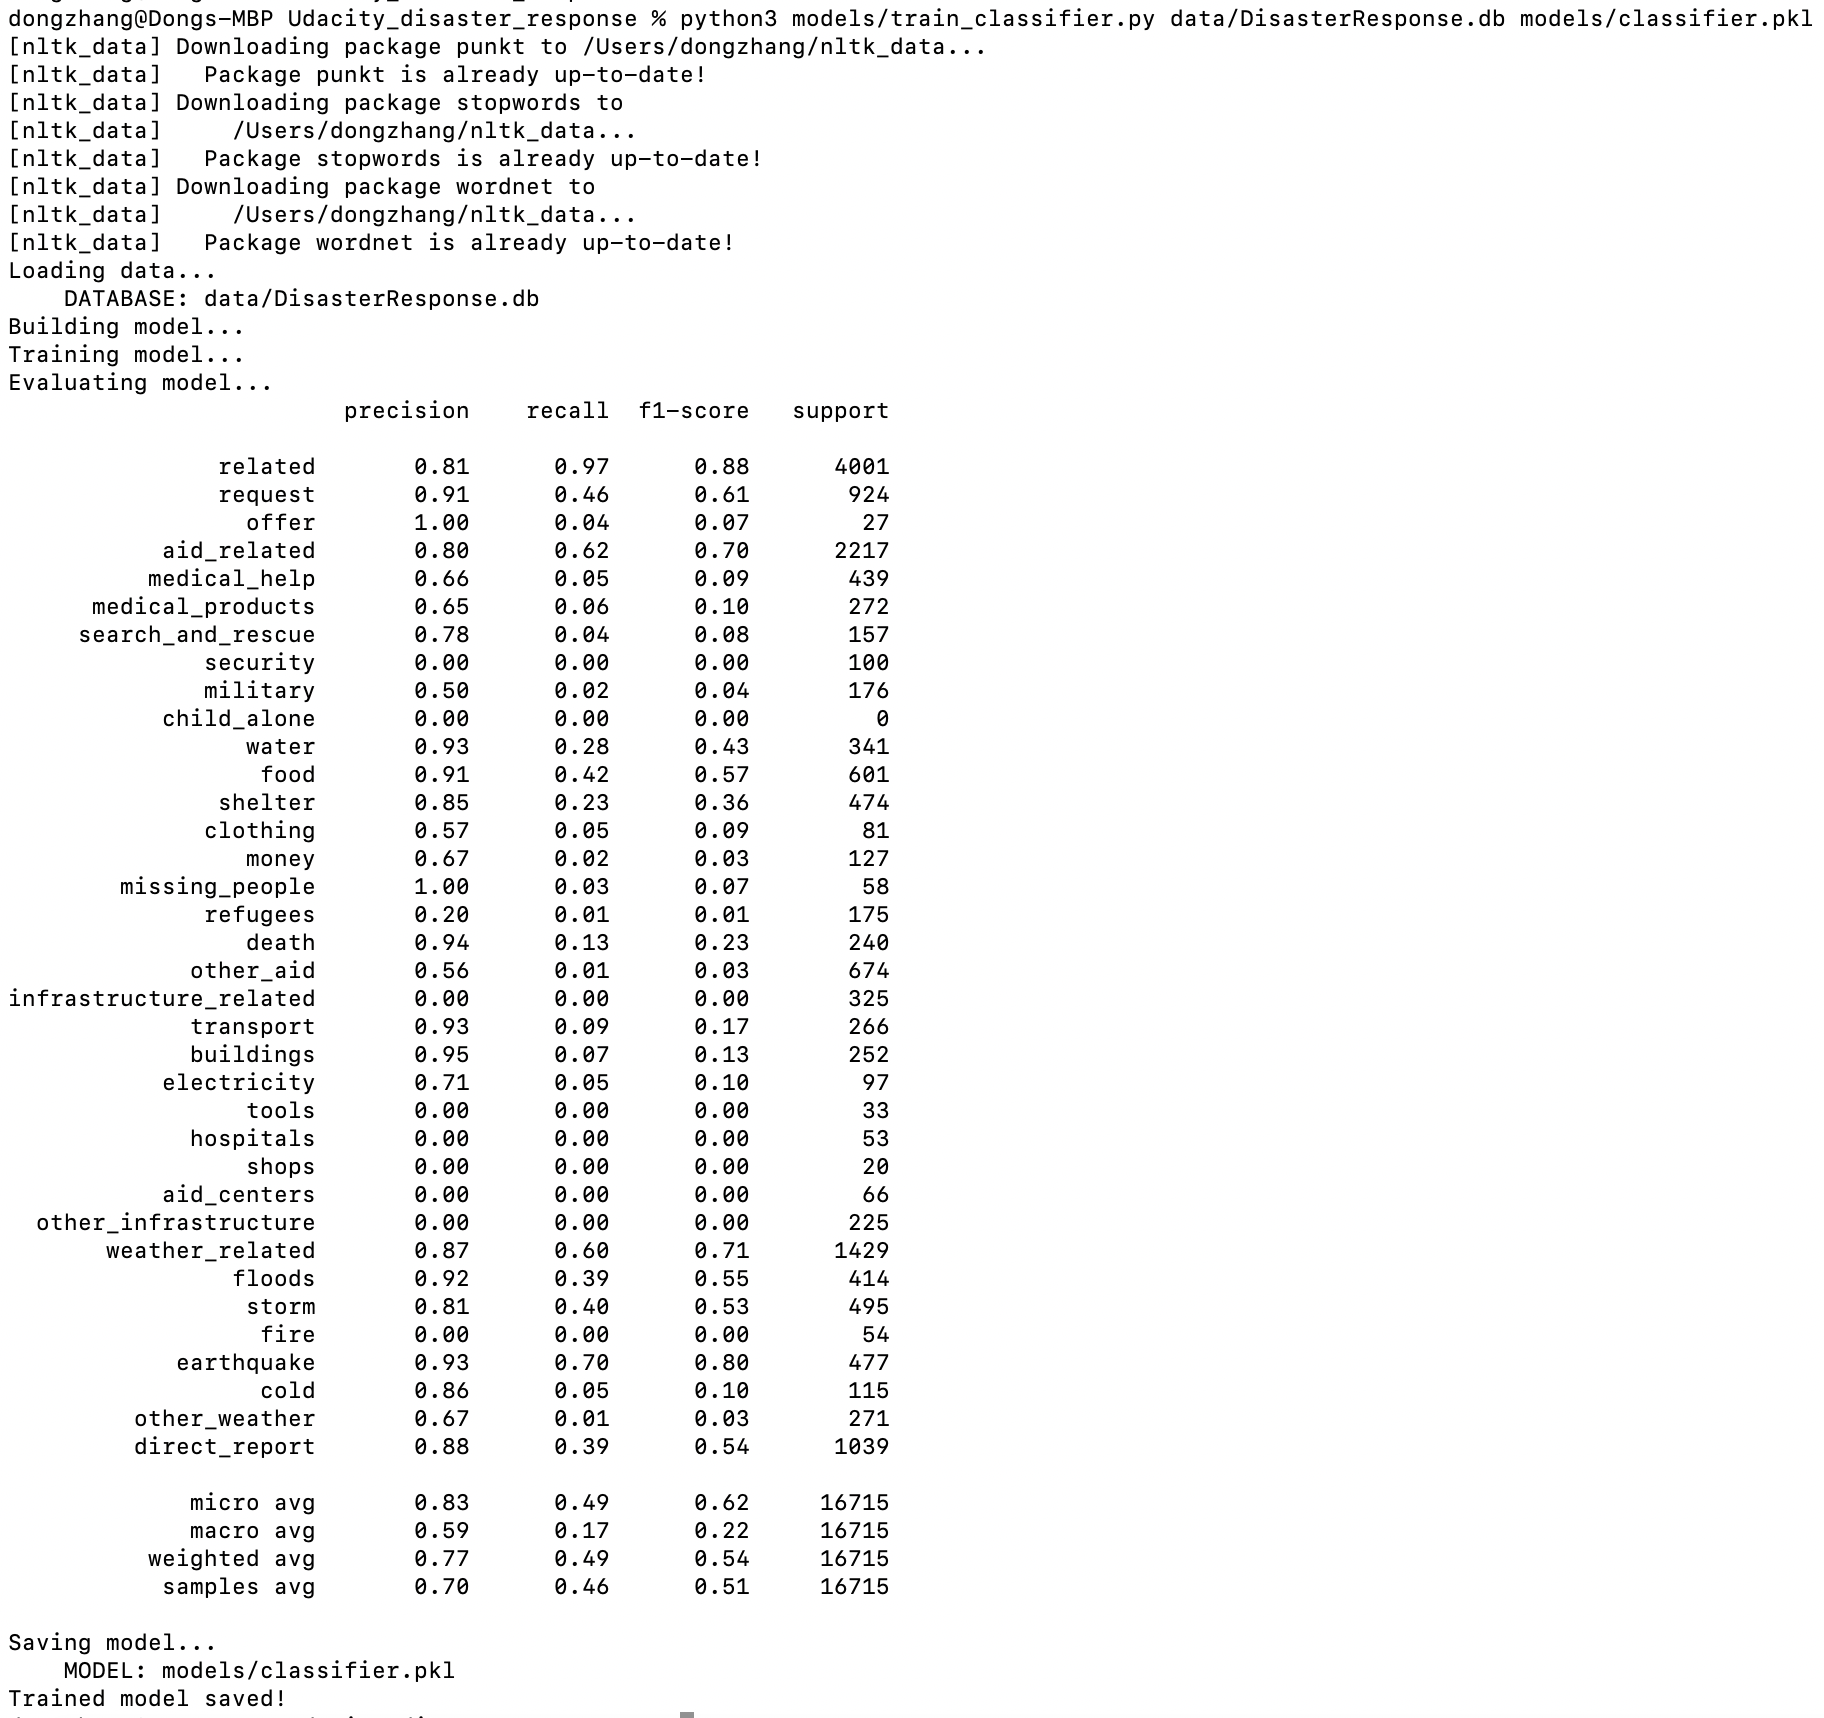
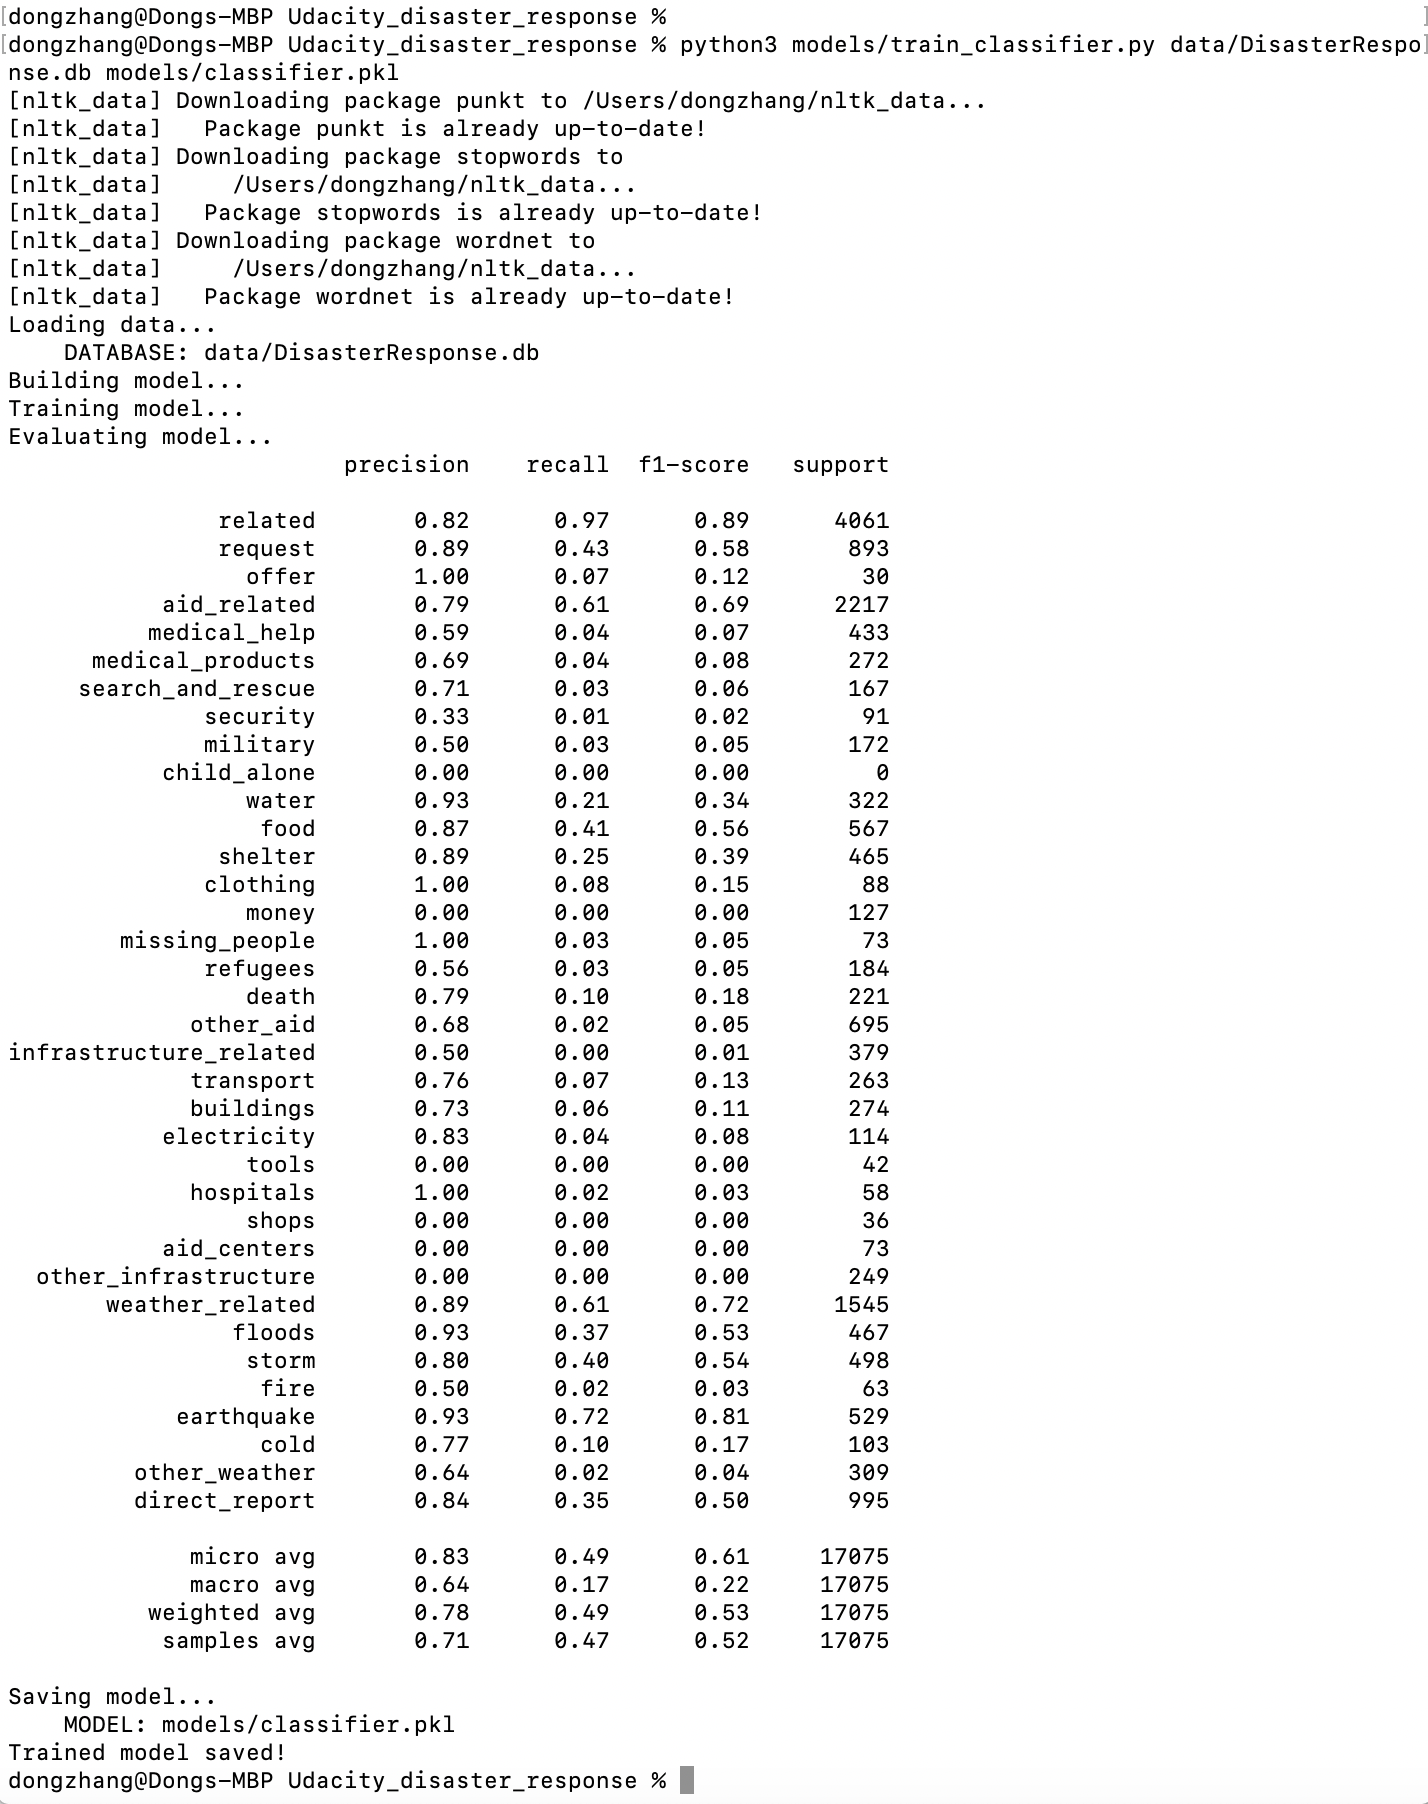
update

diff --git a/models/train_classifier.py b/models/train_classifier.py
@@ -42,7 +42,6 @@ from sklearn.svm import SVC
 from sklearn.metrics import classification_report
 
 import warnings
-
 warnings.simplefilter('ignore')
 
 
@@ -60,7 +59,7 @@ def load_data(database_filepath):
     
     """
     
-    # load data from database
+    # load data from SQL database
     engine = create_engine('sqlite:///' + database_filepath)
     df = pd.read_sql("SELECT * FROM DisasterResponse", engine)
     
@@ -71,7 +70,7 @@ def load_data(database_filepath):
     # save category names
     category_names = list(Y.columns.values)
     
-    return X,Y, category_names
+    return X, Y, category_names
 
 
 def tokenize(text):
@@ -98,6 +97,8 @@ def tokenize(text):
 
         # lemmatizer and lower
         clean_tok = lemmatizer.lemmatize(tok).lower().strip()
+
+        # append the cleaned tokens to the list
         clean_tokens.append(clean_tok)
 
     return clean_tokens
@@ -106,12 +107,13 @@ def tokenize(text):
 def build_model():
     
     """
-    Description: Build the machine learning pipeline model
+    Description: Build the machine learning model using TF-IDF pipeline
     
     Arguments: None
     
-    Return: the ML pipeline model which does the message classification
+    Return: the ML GridSearchCV model which does the message classification
     """
+
     #model = Pipeline([
         #('features', FeatureUnion([
 
@@ -125,19 +127,20 @@ def build_model():
         #('classifier', MultiOutputClassifier(AdaBoostClassifier()))
     #])
 
-    # the pipeline
+    # the TF-IDF pipeline
     pipeline = Pipeline([
                         ('vect', CountVectorizer(tokenizer=tokenize)),
                         ('tfidf', TfidfTransformer()),
                         ('clf', MultiOutputClassifier(RandomForestClassifier()))
                         ])
     
-    # parameter set
+    # parameter set for searchCV
     parameters = {'clf__estimator__min_samples_split': [2, 3, 4],
-                  'clf__estimator__n_estimators': [50, 100],
                   'clf__estimator__criterion': ['entropy', 'gini']
+                  'clf__estimator__n_estimators': [50, 100],
                  }
-
+    
+    # Gridsearch parameters
     model = GridSearchCV(pipeline, param_grid=parameters)
     
     return model
@@ -149,7 +152,7 @@ def evaluate_model(model, X_test, Y_test, category_names):
     Evaluate the ML pipeline accuracy
     
     Arguments:
-    model: the ML pipeline model
+    model: the ML GridSearchCV pipeline model
     X_test: Test features set
     Y_test: Test labels set
     category_names: label names
@@ -169,7 +172,7 @@ def save_model(model, model_filepath):
     model: Model to be saved
     model_filepath: path of the output pick file
     
-    Return: none, but a pickle file can be saved
+    Return: none, but a pickle file can be saved for the model
     '''
     
     pickle.dump(model, open(model_filepath, 'wb'))

diff --git a/data/process_data.py b/data/process_data.py
@@ -66,7 +66,7 @@ def clean_data(df):
     # concatenate the original dataframe with the new `categories` dataframe
     df = pd.concat([df,categories],axis=1)
     
-    # Remove rows with a related value of 2 from the dataset
+    # Remove rows with a related value of 2 from the dataset to keep binary values
     df = df[df['related'] != 2]
     
     return df
@@ -78,10 +78,13 @@ def save_data(df, database_filename):
     
     Arguments:
     df: the dataframe needs to be saved
+    database_filename: name of the saved SQLite database
     
     Return: None
     """ 
     engine = create_engine('sqlite:///' + database_filename)
+
+    # saved as DisasterResponse
     df.to_sql('DisasterResponse', engine, index=False, if_exists='replace')
 
 
@@ -89,9 +92,9 @@ def main():
 
     """
     Main function for the ETL pipeline:
-    -- Load Messages data combined with Categories
-    -- Clean the data
-    -- Save data to SQLite database
+    - Load messages data combined with categories
+    - clean the data
+    - save data to SQLite database
     """
 
 

diff --git a/app/run.py b/app/run.py
@@ -62,12 +62,11 @@ def index():
     genre_counts = df.groupby('genre').count()['message']
     genre_names = list(genre_counts.index)
 
+    # prepare the dataframe for the second graph
 
     # Calculate distribution of individual category with label = 1
     #cate_props = df.drop(['id', 'message', 'original', 'genre'], axis = 1).sum()/len(df)
     #cate_props = cate_props.rename(columns={'infrastructure_related: infra:related'})
-
-
 
     cate_props = df.drop(['id', 'message', 'original', 'genre'], axis = 1)\
            .rename(columns={'infrastructure_related':'infra_related', 
@@ -76,11 +75,7 @@ def index():
     cate_props = cate_props.sort_values(ascending = False)
     cate_values = list(cate_props.index)
 
-    #for value in cate_values:
-        #if len(value) > 8:
-            #value = value[:8]
-
-    print(cate_values)
+    #print(cate_values)
     
     # create visuals
     # TODO: Below is an example - modify to create your own visuals

diff --git a/README.md b/README.md
@@ -3,12 +3,12 @@
 
 ### Project Description:
 
-In this project I built machine learning classification model to categorize messages to better understand disaster responses. I first built an ETL pipeline to extract data from messages and categories data, cleaned the data and saved to a SQLite database. Next I used Natural Language Processing (NLP) methods to build the machine learning model to classify messages in many categories. Then I built a web application using Flask python. 
+In this project I built machine learning classification model to categorize messages and better understand disaster responses. I first built an ETL pipeline to extract data from messages and categories data, cleaned the data and saved it to a SQLite database. Next I used Natural Language Processing (NLP) methods to build the machine learning model to classify messages in many categories. Then I built a web application using Flask python. 
 
 
 ### Installation
 
-In addition to python libraries numpy, pandas, matplotlib and seaborn, the following libraries are needed:
+In addition to python libraries including numpy, pandas, matplotlib and seaborn, the following libraries are needed:
 
 - sqlalchemy
 - sklearn
@@ -31,8 +31,8 @@ Also web application and data visualization tools:
 1. **data**:
 
 - disaster_categories.csv and disaster_messages.csv: datasets with all categories and messages information
-- process_data.py: ETL pipeline to load, clean and save processed data into a SQL database
-- DisasterResponse.db: the saved result as a SQLite database.
+- process_data.py: ETL pipeline to load, clean and save processed data into a SQLite database
+- DisasterResponse.db: the saved SQLite database.
 
 2. **models**:
 
@@ -52,6 +52,7 @@ Also web application and data visualization tools:
 
 
 ### Instructions:
+
 1. Run the following commands in the project's root directory to set up the database and model.
 
     - To run ETL pipeline that cleans data and stores in database
@@ -63,7 +64,7 @@ Also web application and data visualization tools:
         `python3 models/train_classifier.py data/DisasterResponse.db models/classifier.pkl`
 
 2. Run the following command in the app's directory to run the web app.
-    `python run.py`
+    `python3 run.py`
 
 3. Go to http://0.0.0.0:3001/
 
@@ -71,11 +72,13 @@ Also web application and data visualization tools:
 
 ### Results
 
-Running train_classifier.py in terminal:
+Some result screenshots are as follows. 
+
+Running train_classifier.py in the local terminal:
 
 ![Screenshot](screenshot/train_classifier_result.png)
 
-The main webpage of the web application is
+The main webpage of the web application (http://0.0.0.0:3001/) is
 
 ![Screenshot](screenshot/cover_page.png)
 
